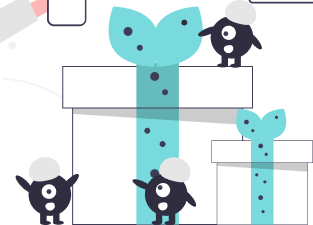
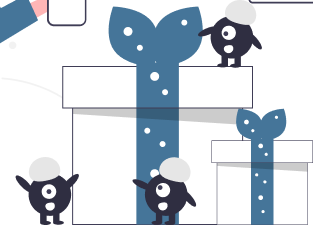
update screen design and add home screen

Changed region(s): [[0.345, 0.0311, 0.6613, 1.0], [0.7476, 0.4667, 0.9201, 1.0], [0.0, 0.0, 0.1438, 0.1867]]

diff --git a/src/screens/SignUpScreen/SignUpScreen.js b/src/screens/SignUpScreen/SignUpScreen.js
@@ -1,5 +1,5 @@
 import React, {useState} from 'react';
-import {View, Text, StyleSheet, Pressable} from 'react-native';
+import {View, Text, StyleSheet, ScrollView} from 'react-native';
 import CustomInput from '../../components/CustomInput';
 import CustomButton from '../../components/CustomButton';
 
@@ -10,69 +10,76 @@ const SignUpScreen = () => {
     console.warn('Register');
   };
   const SignInGoogle = () => {
-    console.warn('Register');
+    console.warn('Google');
   };
   const onPressAble = () => {
     console.warn('Pressable');
   };
   return (
-    <View style={styles.root}>
-      <Text style={styles.textCreate}>Create Account</Text>
-      <CustomInput
-        placeholder="First Name"
-        value={firstName}
-        setValue={setfirstName}
-      />
-      <CustomInput
-        placeholder="Last Name"
-        value={firstName}
-        setValue={setfirstName}
-      />
-      <CustomInput
-        placeholder="No Handphone"
-        value={firstName}
-        setValue={setfirstName}
-      />
-      <CustomInput
-        placeholder="Email"
-        value={firstName}
-        setValue={setfirstName}
-      />
-      <CustomInput
-        placeholder="Password"
-        value={firstName}
-        setValue={setfirstName}
-        secureTextEntry={true}
-      />
-      <CustomButton text="Register" onPress={Register} style={styles.custBut} />
-      <CustomButton
-        text="Sign In With Google"
-        onPress={SignInGoogle}
-        bgColor="#FAE9EA"
-        fgColor="#DD4D44"
-      />
-      <CustomButton
-        text="Have an account? Sign In"
-        onPress={SignInGoogle}
-        bdColor="#65BCBF"
-        type="TERTIARY"
-      />
-      <Pressable onPress={onPressAble} style={styles.pressable}>
-        <Text>Pressable</Text>
-      </Pressable>
-    </View>
+    <ScrollView>
+      <View style={styles.root}>
+        <Text style={styles.textCreate}>Create Account</Text>
+        <CustomInput
+          placeholder="First Name"
+          value={firstName}
+          setValue={setfirstName}
+        />
+        <CustomInput
+          placeholder="Last Name"
+          value={firstName}
+          setValue={setfirstName}
+        />
+        <CustomInput
+          placeholder="No Handphone"
+          value={firstName}
+          setValue={setfirstName}
+        />
+        <CustomInput
+          placeholder="Email"
+          value={firstName}
+          setValue={setfirstName}
+        />
+        <CustomInput
+          placeholder="Password"
+          value={firstName}
+          setValue={setfirstName}
+          secureTextEntry={true}
+        />
+        <CustomButton
+          text="Register"
+          onPress={Register}
+          bgColor="#082032"
+          fgColor="white"
+          style={styles.custBut}
+        />
+        <CustomButton
+          text="Sign In With Google"
+          onPress={SignInGoogle}
+          bgColor="#FAE9EA"
+          fgColor="#DD4D44"
+        />
+        <CustomButton
+          text="Have an account? Sign In"
+          onPress={SignInGoogle}
+          fgColor="#082032"
+          type="TERTIARY"
+        />
+      </View>
+    </ScrollView>
   );
 };
 
 const styles = StyleSheet.create({
   root: {
     alignItems: 'center',
+    backgroundColor: '#F9FBFC',
+    marginTop: 60,
   },
   custBut: {
     marginTop: 50,
   },
   textCreate: {
-    color: 'white',
+    color: '#082032',
     fontFamily: 'Varela-Regular',
     fontWeight: 'bold',
     fontSize: 35,

diff --git a/src/screens/HomeScreen/HomeScreen.js b/src/screens/HomeScreen/HomeScreen.js
@@ -1,0 +1,63 @@
+import React, {useState} from 'react';
+import {View, Text, StyleSheet, SectionList} from 'react-native';
+import CustomInput from '../../components/CustomInput';
+import CustomButton from '../../components/CustomButton';
+
+const HomeScreen = () => {
+  const [search, setSearch] = useState('');
+
+  const Start = () => {
+    console.warn('start');
+  };
+
+  return (
+    <View style={styles.root}>
+      <View>
+        <Text style={styles.home}>Home</Text>
+      </View>
+      <View style={styles.search}>
+        <CustomInput
+          placeholder="Search"
+          value={search}
+          setValue={setSearch}
+          type="SEARCH"
+        />
+      </View>
+      <View style={styles.sectionBanner}>
+        <Text style={{color: 'white'}}>Start New Sumbangin</Text>
+        <CustomButton
+          text="Start Now"
+          onPress={Start}
+          bgColor="#FFF"
+          fgColor="#082032"
+        />
+      </View>
+    </View>
+  );
+};
+
+const styles = StyleSheet.create({
+  root: {
+    alignItems: 'center',
+  },
+  home: {
+    fontSize: 20,
+    fontFamily: 'Varela-Regular',
+    color: '#082032',
+    marginTop: 50,
+    lineHeight: 26,
+  },
+  search: {
+    marginTop: 50,
+    alignItems: 'center',
+    width: '85%',
+  },
+  sectionBanner: {
+    flex: 2,
+    backgroundColor: '#082032',
+    width: '85%',
+    height: 400,
+  },
+});
+
+export default HomeScreen;

diff --git a/src/screens/SignInScreen/SignInScreen.js b/src/screens/SignInScreen/SignInScreen.js
@@ -7,7 +7,7 @@ import {
   useWindowDimensions,
   ScrollView,
 } from 'react-native';
-import Logo from '../../../assets/images/sumbangin-logo-smaller.png';
+import Logo from '../../../assets/images/sumbangin-logo-smaller-dark.png';
 import CustomInput from '../../components/CustomInput';
 import CustomButton from '../../components/CustomButton';
 
@@ -44,12 +44,17 @@ const SignInScreen = () => {
           setValue={setPassword}
           secureTextEntry={true}
         />
-        <CustomButton text="Masuk" onPress={onSignInPressed} />
         <CustomButton
           text="Forgot Password?"
           onPress={onForgotPasswordPressed}
           type="TERTIARY"
-          mrgn="50"
+          fgColor="#082032"
+        />
+        <CustomButton
+          text="Masuk"
+          onPress={onSignInPressed}
+          bgColor="#082032"
+          fgColor="white"
         />
         <CustomButton
           text="Sign In With Google"
@@ -61,6 +66,7 @@ const SignInScreen = () => {
           text="Don't have an account? Create One"
           onPress={onClickRegister}
           type="TERTIARY"
+          fgColor="#082032"
         />
       </View>
     </ScrollView>
@@ -70,6 +76,7 @@ const SignInScreen = () => {
 const styles = StyleSheet.create({
   root: {
     alignItems: 'center',
+    marginTop: 60,
   },
   logo: {
     maxWidth: 250,

diff --git a/src/screens/GreetingScreen/GreetingScreen.js b/src/screens/GreetingScreen/GreetingScreen.js
@@ -1,7 +1,7 @@
 import React from 'react';
 import {View, Text, StyleSheet, Image, useWindowDimensions} from 'react-native';
 import GreetingImage from '../../../assets/images/greeting-image.png';
-import Logo from '../../../assets/images/sumbangin-logo-smaller.png';
+import Logo from '../../../assets/images/sumbangin-logo-darksmaller.png';
 
 import CustomButton from '../../components/CustomButton';
 
@@ -33,12 +33,12 @@ const GreetingScreen = () => {
         text="Masuk"
         onPress={MasukFunc}
         bgColor="#FFFFFF"
-        fgColor="#65BCBF"
+        fgColor="#082032"
       />
       <CustomButton
         text="Register"
         onPress={RegisterFunc}
-        bgColor="#65BCBF"
+        bgColor="#082032"
         fgColor="#FFFFFF"
       />
     </View>
@@ -47,8 +47,10 @@ const GreetingScreen = () => {
 
 const styles = StyleSheet.create({
   root: {
+    flex: 1,
     alignItems: 'center',
-    padding: 35,
+    backgroundColor: '#082032',
+    paddingTop: 40,
   },
   logo: {
     maxWidth: 250,

diff --git a/src/components/CustomInput/CustomInput.js b/src/components/CustomInput/CustomInput.js
@@ -1,14 +1,14 @@
 import React from 'react';
 import {View, Text, TextInput, StyleSheet} from 'react-native';
 
-const CustomInput = ({value, setValue, placeholder, secureTextEntry}) => {
+const CustomInput = ({type, value, setValue, placeholder, secureTextEntry}) => {
   return (
     <View style={styles.container}>
       <TextInput
         value={value}
         onChangeText={setValue}
         placeholder={placeholder}
-        style={styles.input}
+        style={[styles.input, styles[`container_${type}`]]}
         secureTextEntry={secureTextEntry}
       />
     </View>
@@ -24,6 +24,11 @@ const styles = StyleSheet.create({
     borderRadius: 10,
     paddingHorizontal: 10,
     marginVertical: 5,
+  },
+  container_SEARCH: {
+    padding: 20,
+    fontSize: 20,
+    textAlign: 'center',
   },
   input: {},
 });

diff --git a/App.js b/App.js
@@ -3,13 +3,15 @@ import {SafeAreaView, StyleSheet, Text} from 'react-native';
 import SignInScreen from './src/screens/SignInScreen/SignInScreen';
 import GreetingScreen from './src/screens/GreetingScreen/GreetingScreen';
 import SignnUpScreen from './src/screens/SignUpScreen/SignUpScreen';
+import HomeScreen from './src/screens/HomeScreen/HomeScreen';
 
 const App = () => {
   return (
     <SafeAreaView style={styles.root}>
-      <SignnUpScreen />
       {/* <GreetingScreen /> */}
+      {/* <SignnUpScreen /> */}
       {/* <SignInScreen /> */}
+      <HomeScreen />
     </SafeAreaView>
   );
 };
@@ -17,7 +19,6 @@ const App = () => {
 const styles = StyleSheet.create({
   root: {
     flex: 1,
-    backgroundColor: '#65BCBF',
   },
 });
 

diff --git a/src/components/CustomLinkText/CustomText.js b/src/components/CustomLinkText/CustomText.js
@@ -1,0 +1,27 @@
+import React from 'react';
+import {Text, StyleSheet, Pressable} from 'react-native';
+
+const CustomButton = ({text, type = 'PRIMARY', fgColor}) => {
+  return (
+    <Text
+      style={[
+        styles.text,
+        styles[`text_${type}`],
+        fgColor ? {color: fgColor} : {},
+      ]}>
+      {text}
+    </Text>
+  );
+};
+
+const styles = StyleSheet.create({
+  text: {
+    fontWeight: 'bold',
+    color: '#082032',
+    fontSize: 18,
+  },
+  text_TERTIARY: {
+    color: 'white',
+  },
+});
+export default CustomButton;

diff --git a/src/components/CustomButton/CustomButton.js b/src/components/CustomButton/CustomButton.js
@@ -46,7 +46,7 @@ const styles = StyleSheet.create({
   container_TERTIARY: {},
   text: {
     fontWeight: 'bold',
-    color: '#65BCBF',
+    color: '#082032',
     fontSize: 18,
   },
   text_TERTIARY: {
